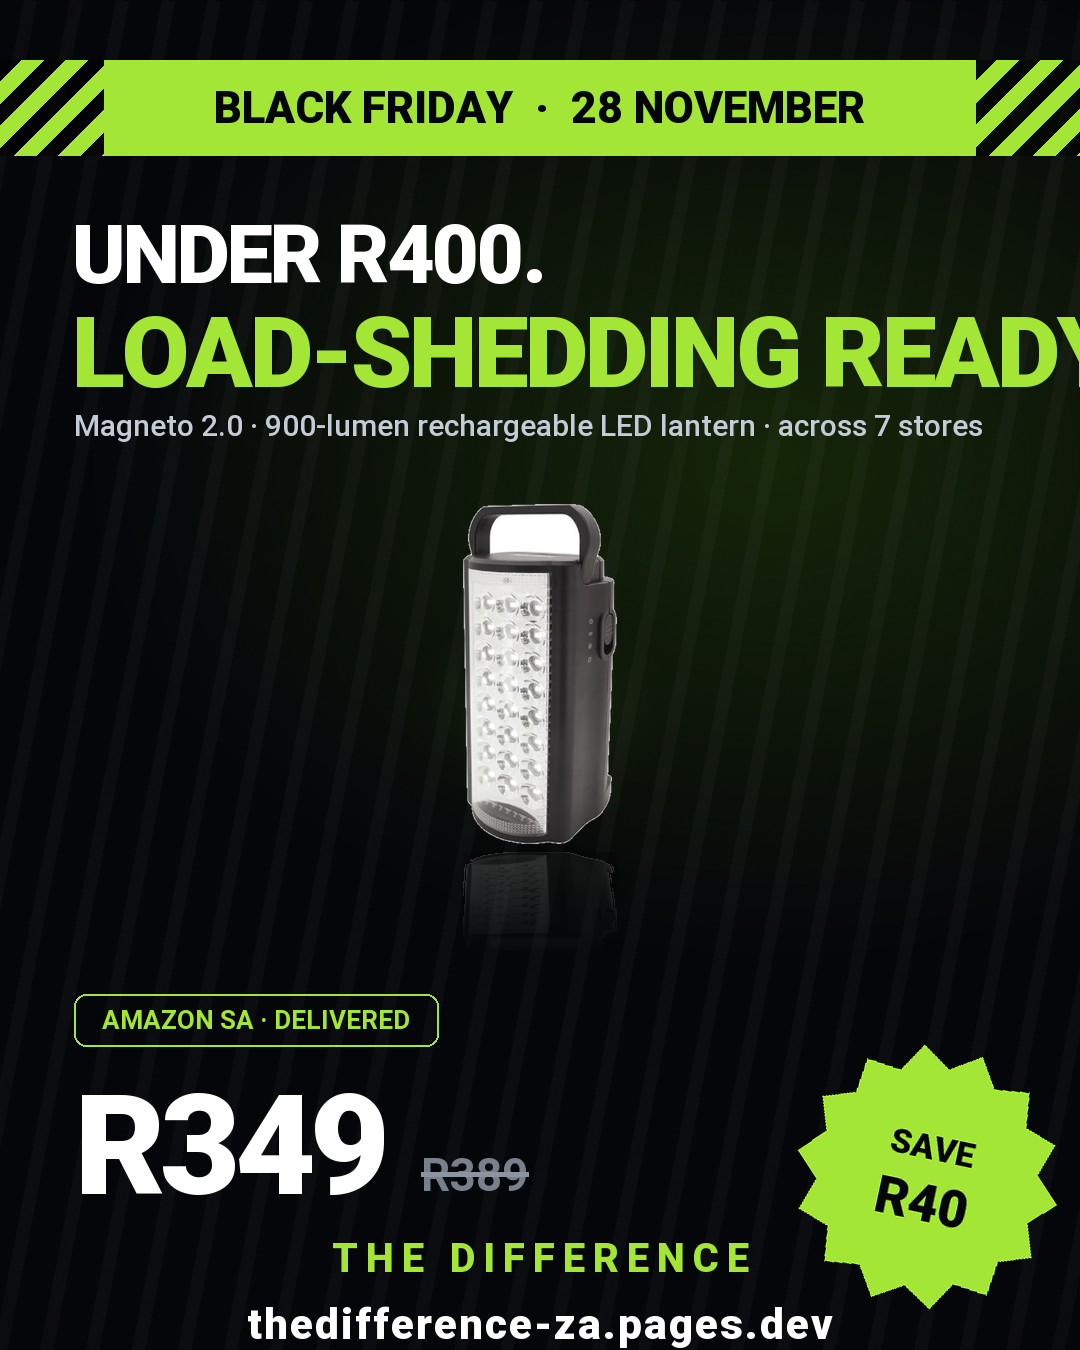
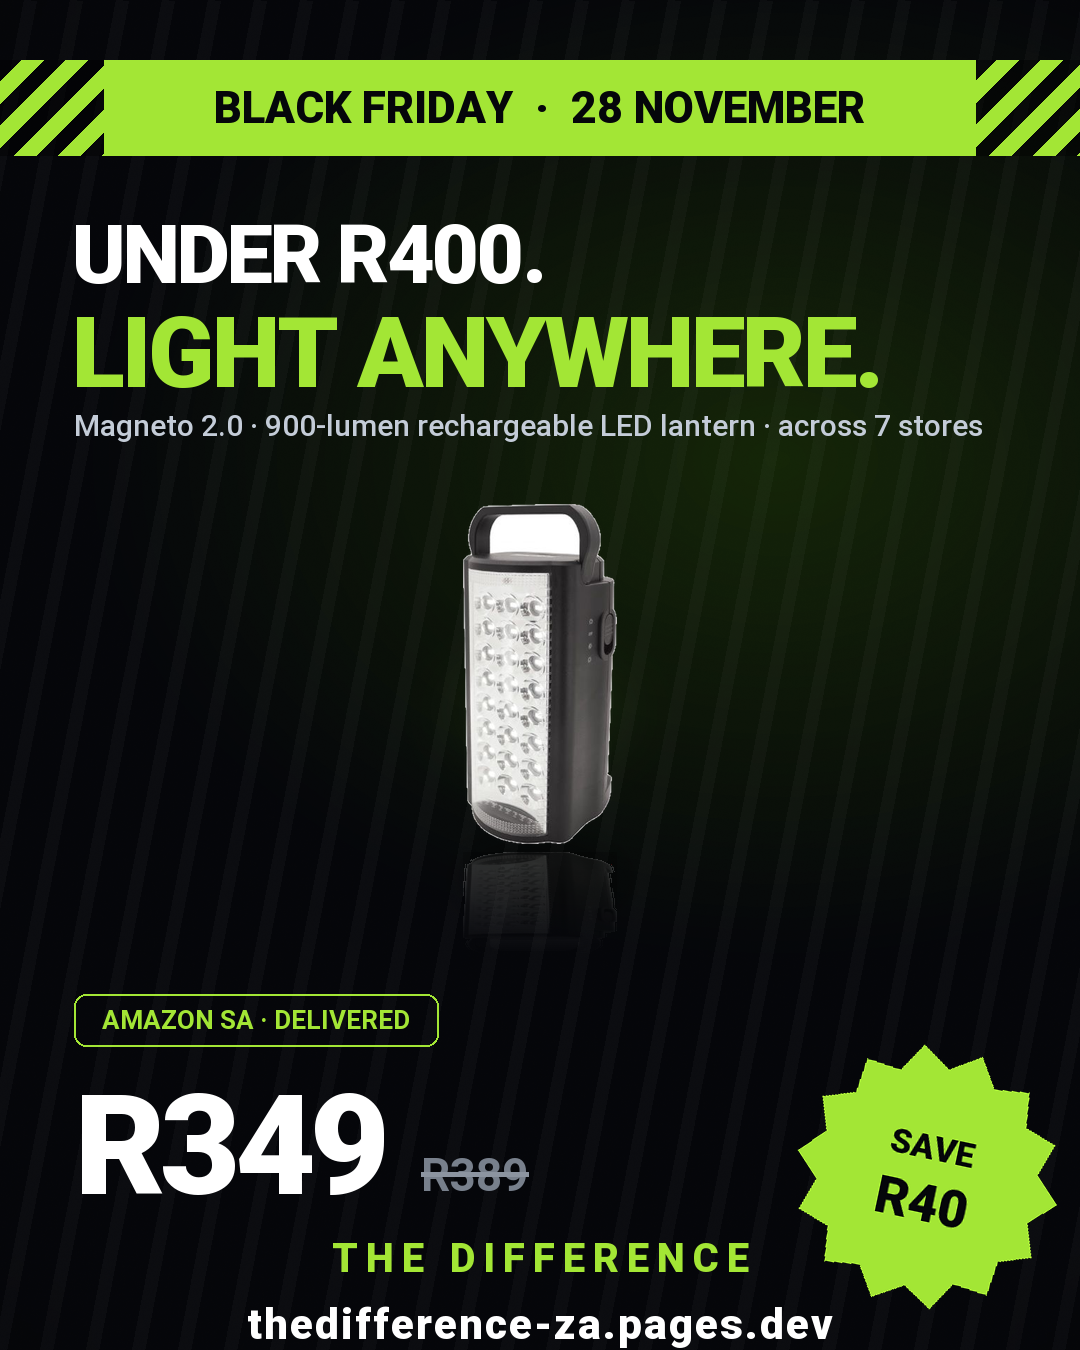
promo: drop load-shedding framing from budget lantern poster (no active load shedding in SA)

Changed region(s): [[0.1222, 0.2178, 1.0, 0.3111]]

diff --git a/scripts/make_bf_posters.py b/scripts/make_bf_posters.py
@@ -461,7 +461,7 @@ if __name__ == "__main__":
     )
     deal_poster(
         "UNDER R400.",
-        "LOAD-SHEDDING READY.",
+        "LIGHT ANYWHERE.",
         "Magneto 2.0 · 900-lumen rechargeable LED lantern · across 7 stores",
         "prod-magneto-900l-lantern.png",
         "R349", "R389", "SAVE\nR40",
